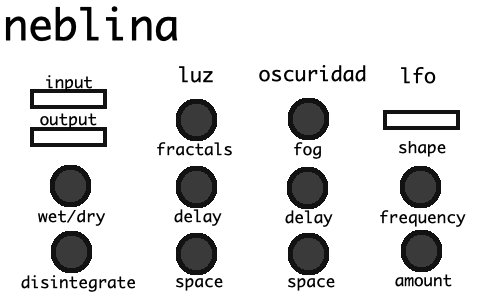
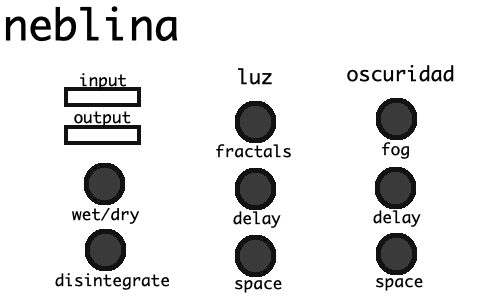
week two

diff --git a/prototype.py b/prototype.py
@@ -6,7 +6,7 @@ import psutil
 def main():
     # initiate server
     s = Server(nchnls=1) # nchnles defaults to 2 channel output, changed to 1 for headphones
-    s.amp = 0.2
+    s.amp = 0.15
     # set the input device
     s.setInputDevice(1) # zoom
     # set the output device
@@ -22,6 +22,7 @@ def main():
     wet_path1 = dry
     # create copy of input for light reverb
     wet_path2 = dry
+
 
     ### signal chain for fog reverb ###
     distortion_out = distortion(wet_path1)
@@ -46,11 +47,11 @@ def main():
     master.addInput(2, right_grimeverb)
     master.addInput(3, left_lightverb)
     master.addInput(4, right_lightverb)
-    master.setAmp(0, 0, .25) # dry
-    master.setAmp(1, 0, .6) # left_grimeverb
-    master.setAmp(2, 0, .6) # right_grimeverb
-    master.setAmp(3, 0, .9) # left_lightverb
-    master.setAmp(4, 0, .9) # right_lightverb
+    master.setAmp(0, 0, .2) # dry
+    master.setAmp(1, 0, .5) # left_grimeverb
+    master.setAmp(2, 0, .5) # right_grimeverb
+    master.setAmp(3, 0, .8) # left_lightverb
+    master.setAmp(4, 0, .8) # right_lightverb
 
     master.out()
 
@@ -266,7 +267,6 @@ def delay2(delay1_left, delay1_right, buftime):
 
 
 def chorus(delay_left, delay_right):
-    # Sets values for 8 LFO'ed delay lines (you can add more if you want!).
     # LFO frequencies.
     freqs = [0.254, 0.465, 0.657, 0.879, 1.23, 1.342, 1.654, 1.879]
     # Center delays in seconds.

diff --git a/README.md b/README.md
@@ -36,8 +36,6 @@ Challenges
     - knobs for aggregate functions
     - signal output visualizer and control
     - info bubbles for each widget giving brief explanation
-- creating lfos
-    - lfo to module shapes of other lfos 
 ____________________________
 
 IN PROGRESS
@@ -53,7 +51,6 @@ IN PROGRESS
 ____________________________
 
 TO DO
-- create lfos to modulate times in delays,reverbs and chorus
 - implement a wet/dry feature
 - create aggregate functions
     - input volume control
